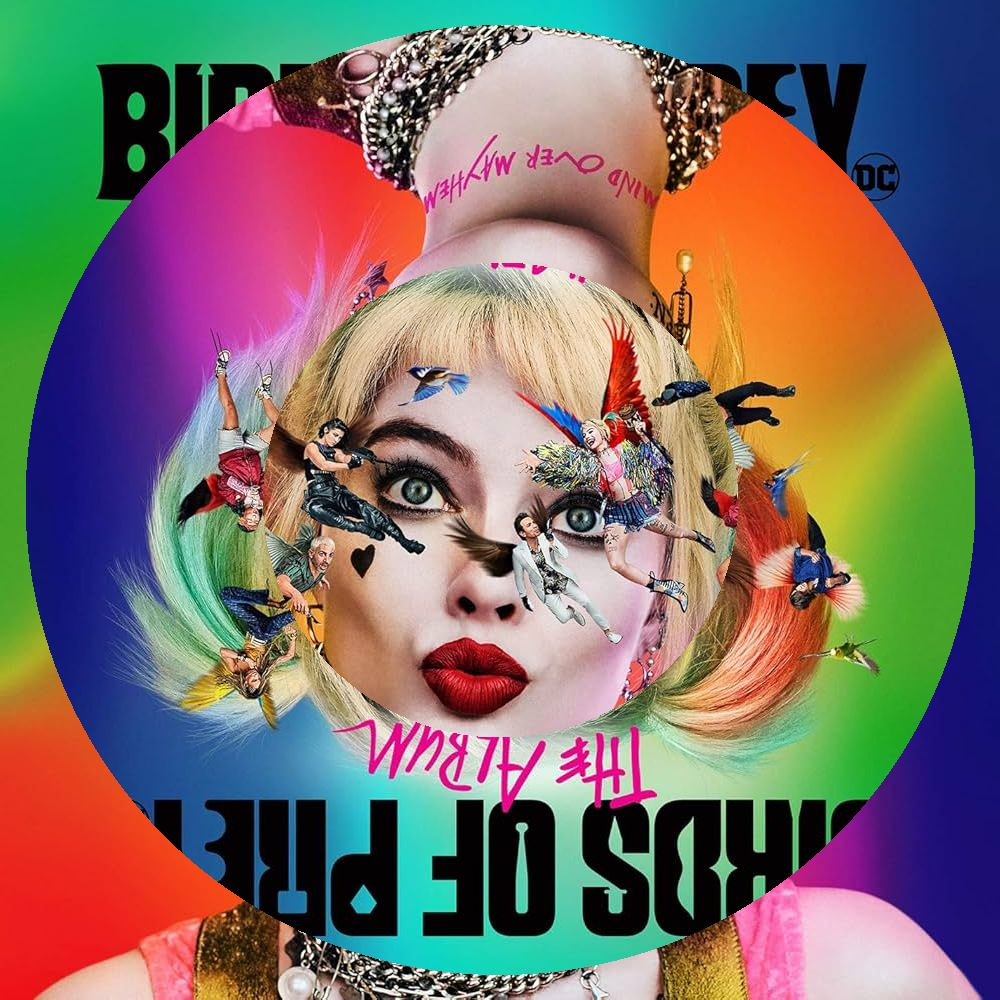
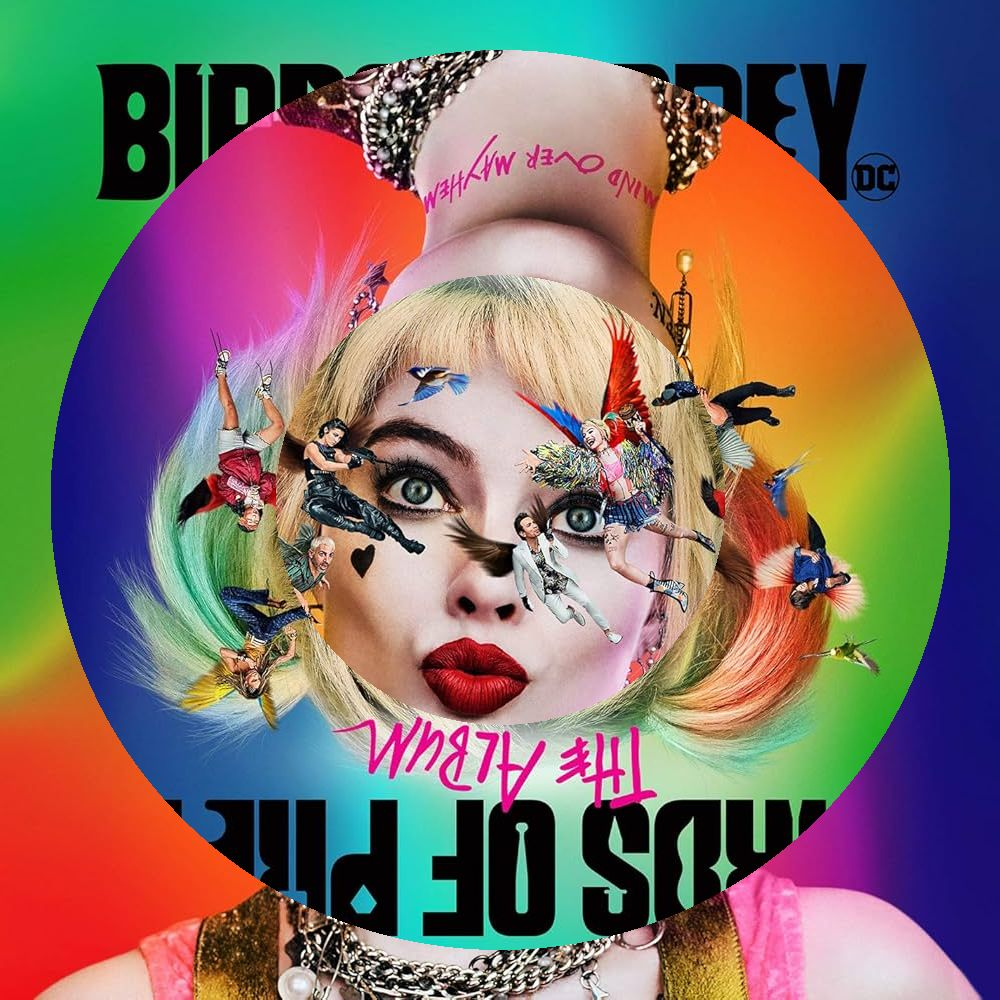
improve centroid initialization logic: start w/ most prevalent raw colors

diff --git a/extractColors.ts b/extractColors.ts
@@ -33,9 +33,10 @@ export async function extractColors(
 	const data = source instanceof Buffer ? Uint8ClampedArray.from(source) : source
 
 	const map = countColors(data, meta.channels, colorSpace)
-	const array = transferableMap(map)
+	const sorted = sortColorMap(map)
+	const array = transferableMap(sorted)
 	console.log(name, "Unique Colors:", array.length / 2)
-	const centroids = await strategy(colorSpace, array, source.length / meta.channels, useWorkers)
+	const centroids = await strategy(name, colorSpace, array, source.length / meta.channels, useWorkers)
 	console.log(name, centroids)
 	if (clamp !== false) {
 		clampCentroidsToOriginalColors(
@@ -181,8 +182,8 @@ function countColors(
 	return colors
 }
 
-function transferableMap(map: Map<number, number>): Uint32Array {
-	const length = map.size * 2
+function transferableMap(map: [hex: number, count: number][]): Uint32Array {
+	const length = map.length * 2
 	const buffer = new SharedArrayBuffer(Uint32Array.BYTES_PER_ELEMENT * length)
 	/**
 	 * using a `Uint32Array` (max 4_294_967_295), in `key-value` pairs:
@@ -333,13 +334,13 @@ function mainZoneColor(
 	return sorted[0][0]
 }
 
-async function kmeans(space: ColorSpace, array: Uint32Array, k: number, useWorkers: boolean) {
+async function kmeans(name: string, space: ColorSpace, array: Uint32Array, k: number, useWorkers: boolean) {
 	if (!useWorkers) {
 		const { kmeans } = await import('./kmeans.worker.ts')
-		return kmeans(space, array, k)
+		return kmeans(name, space, array, k)
 	}
 	const worker = new Worker('./kmeans.worker.ts', {
-		workerData: { buffer: array.buffer, k, space: space.name },
+		workerData: { buffer: array.buffer, k, space: space.name, name },
 	})
 	worker.unref()
 	return new Promise<{ centroids: Map<number, number>, wcss: number }>((resolve, reject) => {
@@ -377,7 +378,7 @@ async function kmeans(space: ColorSpace, array: Uint32Array, k: number, useWorke
 
 
 interface Strategy {
-	(colorSpace: ColorSpace, data: Uint32Array, size: number, useWorkers: boolean): Promise<Map<number, number>>
+	(name: string, colorSpace: ColorSpace, data: Uint32Array, size: number, useWorkers: boolean): Promise<Map<number, number>>
 }
 
 /**
@@ -396,10 +397,10 @@ export function elbowKmeans({
 	start = [1, 2, 3, 4],
 	end = [50, 100]
 } = {}): Strategy {
-	return async (space, data, size, useWorkers) => {
+	return async (name, space, data, size, useWorkers) => {
 		const [startPoints, endPoints] = await Promise.all([
-			Promise.all(start.map(k => kmeans(space, data, k, useWorkers))),
-			Promise.all(end.map(k => kmeans(space, data, k, useWorkers))),
+			Promise.all(start.map(k => kmeans(name, space, data, k, useWorkers))),
+			Promise.all(end.map(k => kmeans(name, space, data, k, useWorkers))),
 		])
 
 		// for 1 cluster per color, we can guarantee that the WCSS is 0, which can be used to compute the slope intersection
@@ -445,7 +446,7 @@ export function elbowKmeans({
 			return endPoints[inEnd].centroids
 		}
 
-		return (await kmeans(space, data, optimal, useWorkers)).centroids
+		return (await kmeans(name, space, data, optimal, useWorkers)).centroids
 	}
 }
 
@@ -464,7 +465,7 @@ export function gapStatisticKmeans({ maxK = 10, minK = 1 } = {}): Strategy {
 		}
 		return array
 	}
-	return async (space, data, size, useWorkers) => {
+	return async (name, space, data, size, useWorkers) => {
 		const ks = Array.from({ length: maxK - minK + 1 }, (_, i) => i + minK)
 
 		const reference = makeUniformData(size)
@@ -472,8 +473,8 @@ export function gapStatisticKmeans({ maxK = 10, minK = 1 } = {}): Strategy {
 			all,
 			references
 		] = await Promise.all([
-			Promise.all(ks.map(k => kmeans(space, data, k, useWorkers))),
-			Promise.all(ks.map(k => kmeans(space, reference, k, useWorkers))),
+			Promise.all(ks.map(k => kmeans(name, space, data, k, useWorkers))),
+			Promise.all(ks.map(k => kmeans(name, space, reference, k, useWorkers))),
 		])
 
 		const gaps = ks.map((k, i) => {

diff --git a/kmeans.worker.ts b/kmeans.worker.ts
@@ -50,17 +50,55 @@ function closestColor(space: ColorSpace, colors: number[], centroid: number): nu
 }
 
 /**
+ * initialize centroids as the first K unique colors (i.e. all significantly different from each other)
+ */
+function initialCentroids(name: string, space: ColorSpace, data: Uint32Array, k: number, n: number): Array<number> {
+	const centroids = Array<number>(k)
+
+	/** index of `centroid` for which we're currently looking for a color */
+	let j = 0
+
+	for (let i = 0; i < n; i++) {
+		const candidate = data[i * 2]
+		let unique = true
+		for (let l = 0; l < j; l++) {
+			if (space.distance(centroids[l], candidate) < space.epsilon) {
+				unique = false
+				break
+			}
+		}
+		if (unique) {
+			centroids[j] = candidate
+			j++
+			if (j === k) {
+				break
+			}
+		}
+	}
+
+	if (j < k) {
+		centroids.length = j
+		console.log(name, 'Not enough unique colors to create k clusters', { j, k, n })
+	}
+
+	return centroids
+}
+
+/**
  * @param space color space string ID
  * @param data repeated pairs color,count, kind of like a flattened Map
  * color: 0xffffff
  *          ││││└┴──> z
  *          ││└┴──> y
  *          └┴──> x
- * @param k number of clusters
+ * @param k number of clusters (can be reduced if data doesn't have enough unique colors)
  */
-export function kmeans(space: ColorSpace, data: Uint32Array, k = 5) {
+export function kmeans(name: string, space: ColorSpace, data: Uint32Array, k = 5) {
 	const n = data.length / 2
-	const centroids = Array.from({ length: k }, (_, i) => data[i * 2])
+	const centroids = initialCentroids(name, space, data, k, n)
+	if (centroids.length !== k) {
+		k = centroids.length
+	}
 	/** The value of `clusters[n]` means "the color at `data[n*2]` belongs to `centroids[clusters[n]]`" */
 	const clusters: number[] = new Array(n)
 
@@ -121,6 +159,7 @@ export function kmeans(space: ColorSpace, data: Uint32Array, k = 5) {
 	return {
 		centroids: result,
 		wcss,
+		k,
 	}
 }
 
@@ -134,5 +173,6 @@ if (!isMainThread) {
 	const array = new Uint32Array(workerData.buffer)
 	const k = workerData.k
 	const space = workerData.space
-	parentPort.postMessage(kmeans(difference[space], array, k))
+	const name = workerData.name
+	parentPort.postMessage(kmeans(name, difference[space], array, k))
 }

diff --git a/scramble-image.ts b/scramble-image.ts
@@ -30,7 +30,7 @@ sharp(path)
 	.toBuffer({ resolveWithObject: true })
 	.then(async ({ data, info: { width, height, channels } }) => {
 
-		const radius = Math.max(width, height) / 2 * 0.95
+		const radius = Math.max(width, height) / 2 * 0.90
 		const wCenter = width / 2
 		const hCenter = height / 2
 
